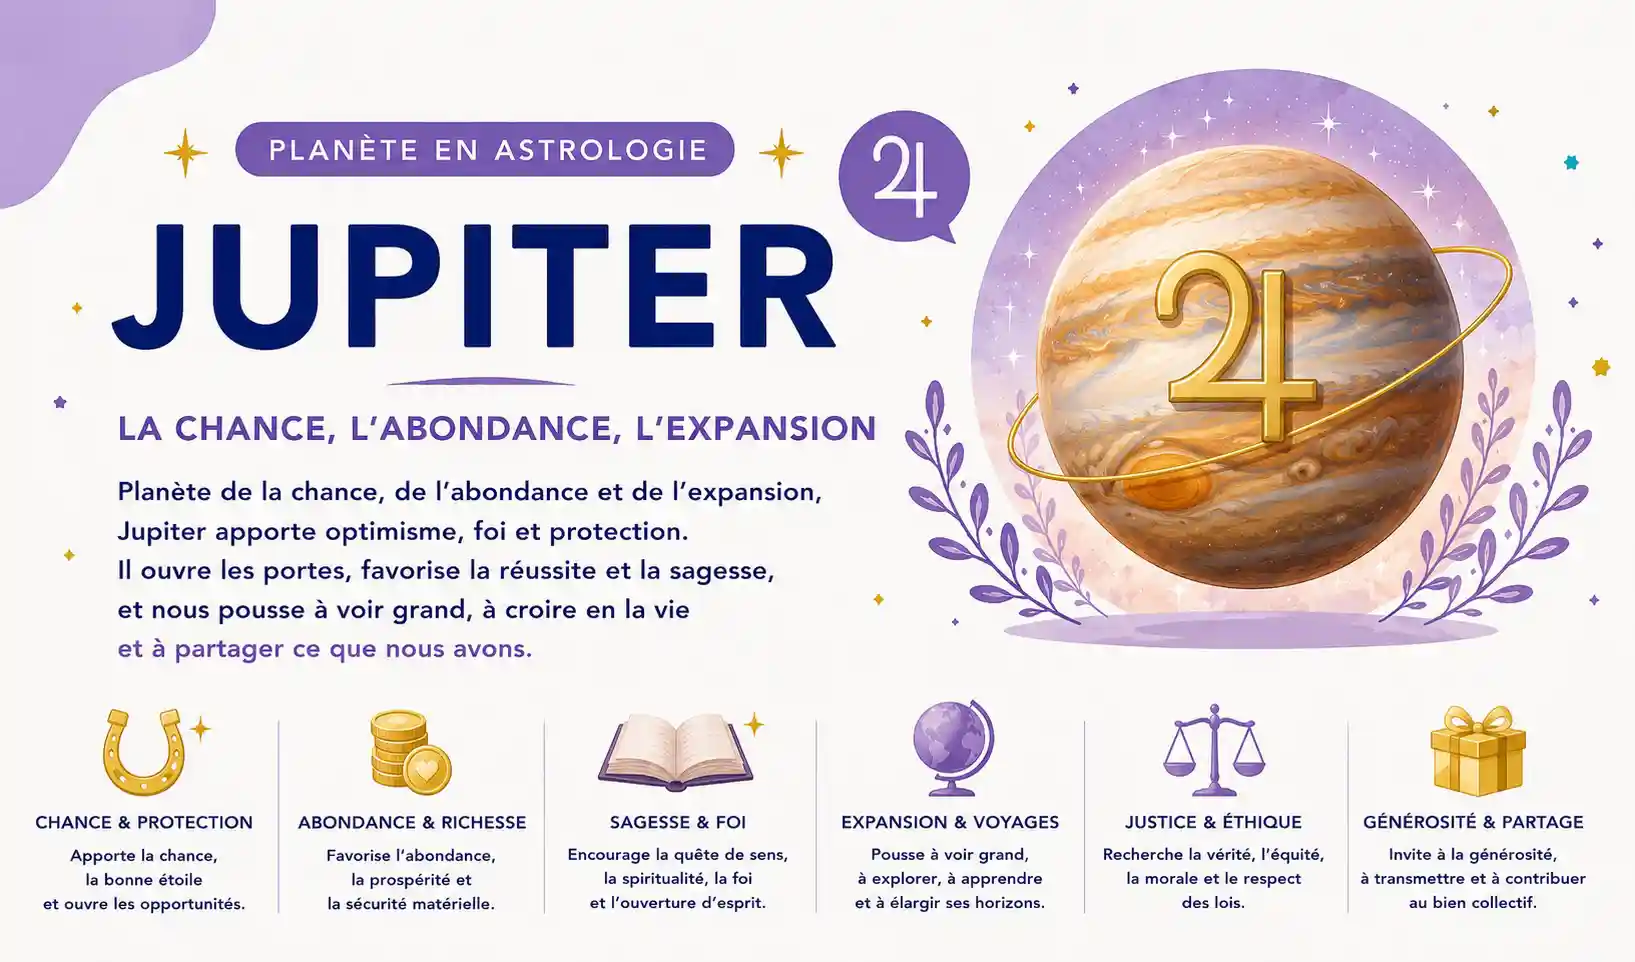
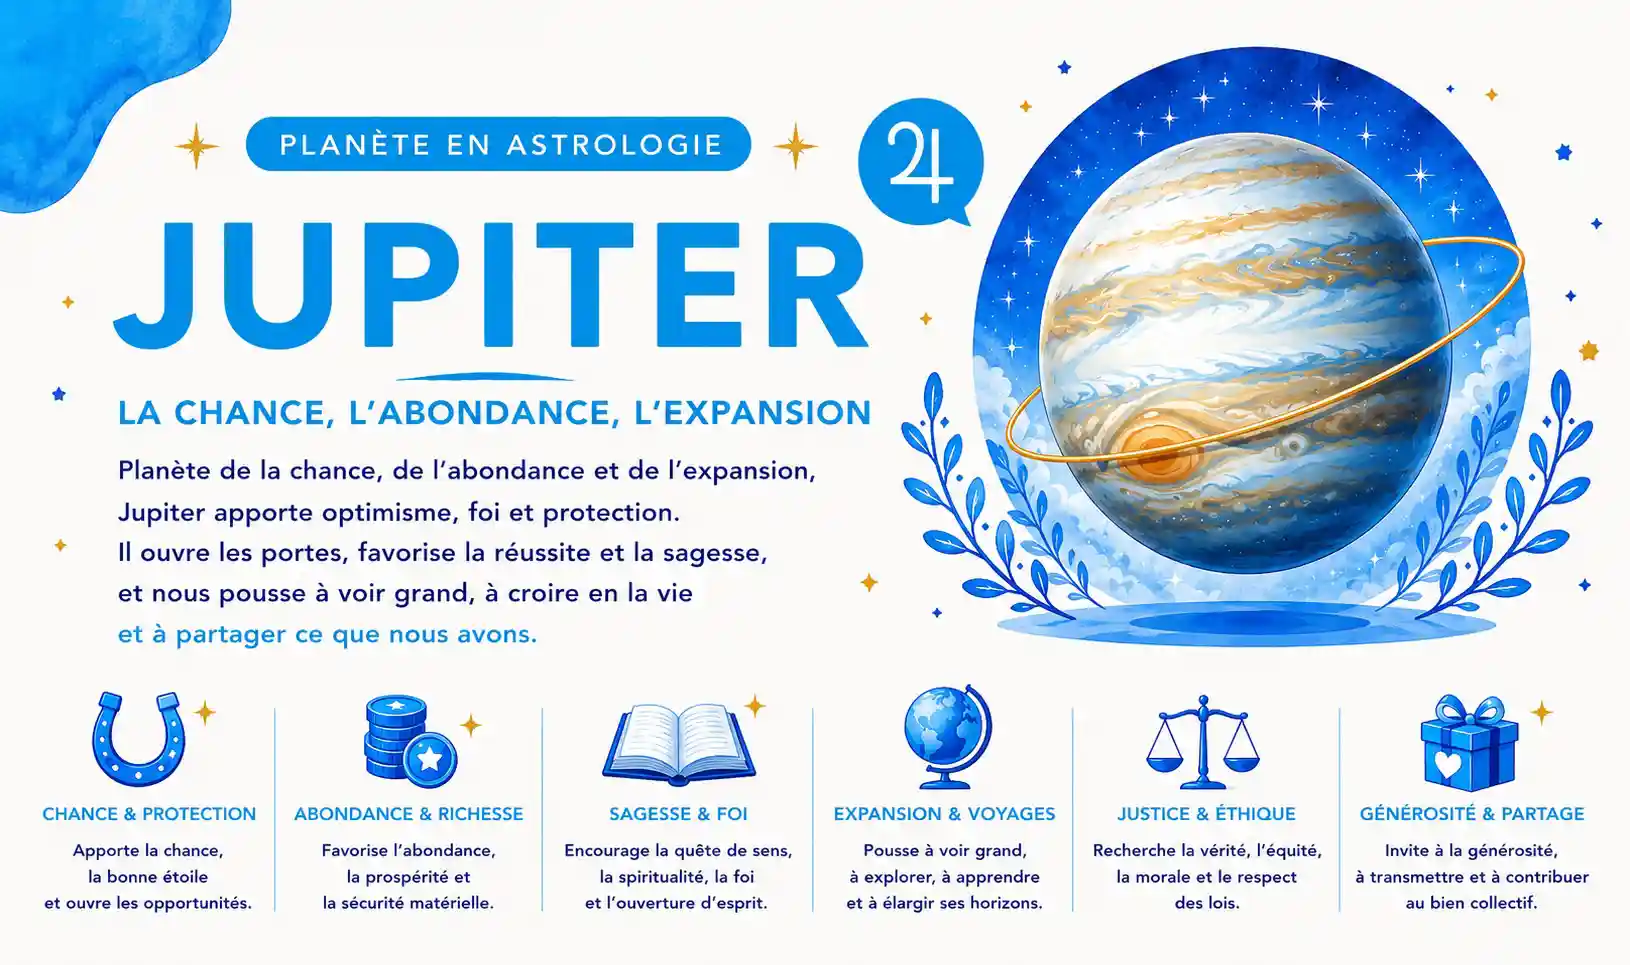
update

diff --git a/data/articles/planete-soleil-en-astrologie.md b/data/articles/planete-soleil-en-astrologie.md
@@ -4,7 +4,7 @@ slug: "soleil-astrologie-identite-ego-theme-astral"
 description: "Découvrez la signification du Soleil en astrologie : identité, ego, confiance en soi, rayonnement, figure du père et rôle dans le thème astral."
 date: "2026-06-24"
 category: "Planètes"
-image: "/static/blog/images/soleil-astrologie-theme-astral.webp"
+image: "/static/blog/images/soleil-astrologie.webp"
 image_alt: "Illustration du Soleil en astrologie dans le thème astral"
 ---
 
